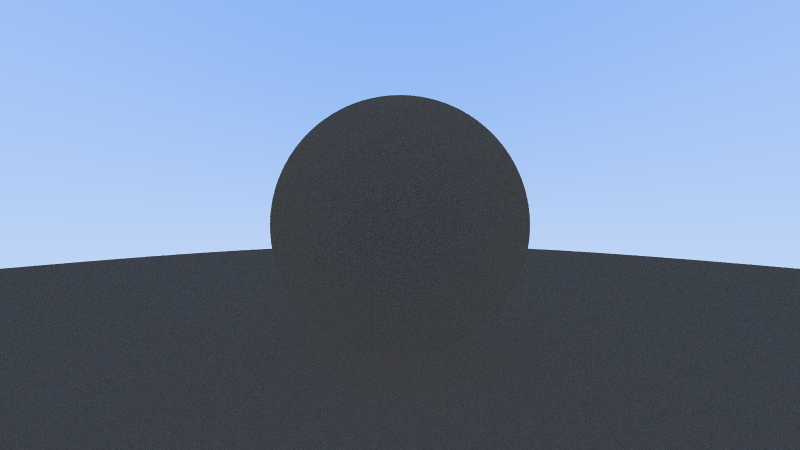
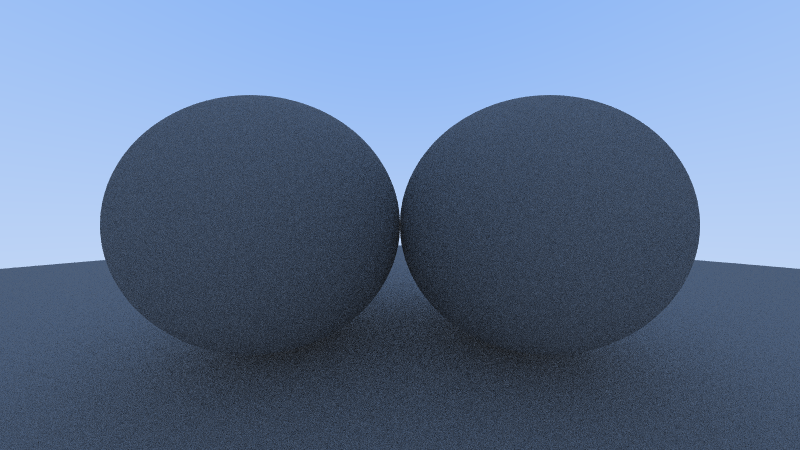
Fixed shadow acne and outward normals

diff --git a/src/camera.rs b/src/camera.rs
@@ -6,14 +6,12 @@ use image::{ImageBuffer, RgbImage};
 use rand::Rng;
 
 fn rand_normal() -> Vector3<f64> {
-    use rand::distributions::{Distribution, Uniform}; 
     let mut rng = rand::thread_rng();
-    let distribution = Uniform::new(-1.0, 1.0);
     loop {
         let random = Vector3::new(
-            distribution.sample(&mut rng),
-            distribution.sample(&mut rng),
-            distribution.sample(&mut rng));
+            rng.gen_range(-1.0..1.0),
+            rng.gen_range(-1.0..1.0),
+            rng.gen_range(-1.0..1.0));
 
         if random.dot(random) < 1.0 {
             return random.normalize();
@@ -45,7 +43,7 @@ fn ray_color(ray: Ray, objects: &Vec<Box<dyn Hittable>>, max_depth: u32) -> Vect
         return Vector3::new(255.0, 255.0, 255.0);
     } 
     
-    return match objects.hit(ray, &Interval::new(0.0, f64::INFINITY)) {
+    return match objects.hit(ray, &Interval::new(0.0001, f64::INFINITY)) {
         Some(record) => {
             let direction = rand_on_hemisphere(record.normal);
             return 0.5 * ray_color(Ray::new(record.hit, direction), objects, max_depth - 1);
@@ -117,6 +115,8 @@ impl Camera {
                 }
                 let pixel = image.get_pixel_mut(i, j);
                 color = color / self.pixel_samples as f64;
+                let intensity = Interval::new(0.0, 0.999);
+                color.map(|channel| intensity.clamp(channel));
                 *pixel = color_from_vector(color);
             }
             println!(">{}%", (100.0 * i as f64 / self.width as f64) as u8);

diff --git a/src/shapes.rs b/src/shapes.rs
@@ -10,7 +10,7 @@ pub struct Sphere {
 }
 
 impl Hittable for Vec<Box<dyn Hittable>> {
-    fn hit(&self, ray: Ray, render_bounds: &Interval<f64>) -> Option<HitRecord> {
+    fn hit(&self, ray: Ray, render_bounds: &Interval) -> Option<HitRecord> {
         let hits = self
             .into_iter()
             .map(|obj| obj.hit(ray, render_bounds))
@@ -25,7 +25,7 @@ impl Hittable for Vec<Box<dyn Hittable>> {
 }
 
 impl Hittable for Sphere {
-    fn hit(&self, ray: Ray, render_bounds: &Interval<f64>) -> Option<HitRecord> {
+    fn hit(&self, ray: Ray, render_bounds: &Interval) -> Option<HitRecord> {
         // TODO: This function should be refactored once I have some time
         let oc = ray.origin - self.origin;
         let a: f64 = ray.direction.dot(ray.direction);
@@ -46,11 +46,14 @@ impl Hittable for Sphere {
                 return None;
             }
         }
+
+        let outward_normal = (ray.at(closest_root) - self.origin) / self.radius;
+        let front_face = ray.direction.dot(outward_normal) < 0.0;
         
         return Some(HitRecord {
             hit: ray.at(closest_root),
             distance: closest_root,
-            normal: (ray.at(closest_root) - self.origin) / self.radius
+            normal: if front_face { outward_normal } else { -outward_normal }
         });
     }
 }

diff --git a/src/interval.rs b/src/interval.rs
@@ -1,18 +1,24 @@
-pub struct Interval<T> {
-    pub min: T,
-    pub max: T
+pub struct Interval {
+    pub min: f64,
+    pub max: f64
 }
 
-impl<T: std::cmp::PartialOrd> Interval<T> {
-    pub fn new(min: T, max: T) -> Interval<T> {
+impl Interval {
+    pub fn new(min: f64, max: f64) -> Interval {
         Interval { min: min, max: max }
     }
 
-    pub fn is_inside(&self, value: T) -> bool {
+    pub fn is_inside(&self, value: f64) -> bool {
         self.min <= value && value <= self.max 
     }
 
-    pub fn is_outside(&self, value: T) -> bool {
+    pub fn is_outside(&self, value: f64) -> bool {
         !self.is_inside(value)
+    }
+
+    pub fn clamp(&self, value: f64) -> f64 {
+        if value < self.min { return self.min; }
+        if value > self.max { return self.max; }
+        return value;
     }
 }

diff --git a/src/main.rs b/src/main.rs
@@ -21,7 +21,11 @@ fn main() {
 
     let objects: Vec<Box<dyn Hittable>> = vec!(
         Box::new(Sphere {
-            origin: Vector3::new(0.0, 0.0, -1.0),
+            origin: Vector3::new(-0.5, 0.0, -1.0),
+            radius: 0.5
+        }),
+        Box::new(Sphere {
+            origin: Vector3::new(0.5, 0.0, -1.0),
             radius: 0.5
         }),
         Box::new(Sphere {

diff --git a/src/hits.rs b/src/hits.rs
@@ -23,5 +23,5 @@ impl PartialEq for HitRecord {
 }
 
 pub trait Hittable {
-    fn hit(&self, ray: Ray, render_bounds: &Interval<f64>) -> Option<HitRecord>;
+    fn hit(&self, ray: Ray, render_bounds: &Interval) -> Option<HitRecord>;
 }
